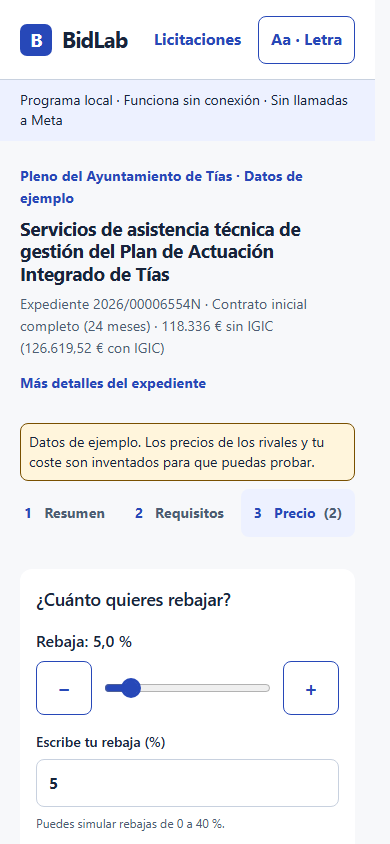
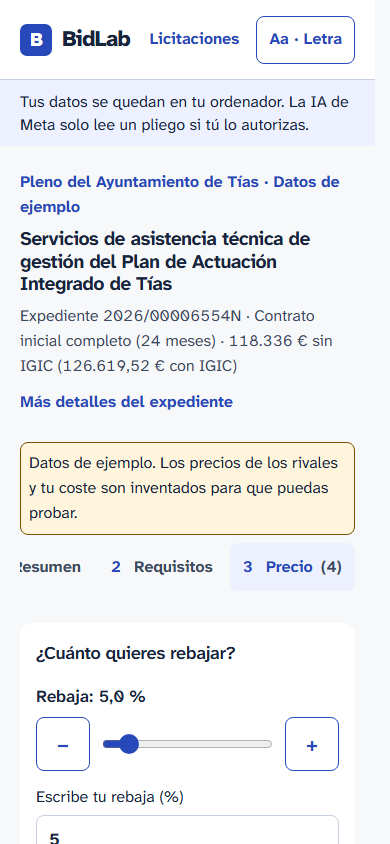
Redesign the type and contrast system for older readers
Atkinson Hyperlegible Next for text, Inter figures for amounts, a 16px
reading floor applied through the Tailwind theme, AAA text contrast, 3:1
form-control borders, a compact step rail marked without relying on
colour, and a header that states where the data goes.

diff --git a/apps/web/src/styles.css b/apps/web/src/styles.css
@@ -1,13 +1,59 @@
 @import "tailwindcss";
 
+/*
+ * Design system for the primary user: the owner of a small Spanish firm,
+ * often 55-75 years old, deciding alone whether a public tender is worth
+ * a bid. Every token below answers to that person, not to a style trend.
+ *
+ * 1. Reading floor. Nothing a user must read is smaller than 16px; body
+ *    copy is 18px. Tailwind's text-xs/text-sm are re-based upward here
+ *    instead of being edited in ~300 call sites, so the floor is a single
+ *    decision (NN/g, "Usability for Seniors": 16px minimum, larger body).
+ * 2. Typeface. Atkinson Hyperlegible Next was drawn by the Braille
+ *    Institute for low-vision readers: distinct I/l/1, 0/O and open
+ *    counters. In a pricing tool, a misread digit is a wrong bid, so the
+ *    figures come from Inter with a plain zero (see "BidLab Figures").
+ * 3. Contrast. Text meets WCAG 2.2 AAA (7:1) on paper and white; form
+ *    controls get their own border token at >= 3:1 (SC 1.4.11), because
+ *    a field you cannot see is a field you do not fill in.
+ * 4. Targets. Every control is >= 48px tall (buttons in ui.tsx), above the
+ *    WCAG 2.5.8 minimum, for hands that tremble or a trackpad.
+ * 5. One idea per surface, plain Spanish, the same word for the same
+ *    action everywhere (docs/copy-style-es.md): recognition over recall.
+ * 6. Motion only confirms what the user just did, and stops under
+ *    prefers-reduced-motion (see lib/motion.ts).
+ */
+/* Digits only (unicode-range), from Inter: Atkinson's zero carries a slash,
+ * which reads as "Ø" in euro amounts for a Spanish reader. Letters stay
+ * Atkinson; figures look like the ones on a bank statement. */
+@font-face {
+  font-family: "BidLab Figures";
+  src: url("../../../node_modules/@fontsource-variable/inter/files/inter-latin-wght-normal.woff2")
+    format("woff2-variations");
+  font-weight: 100 900;
+  font-style: normal;
+  font-display: swap;
+  unicode-range: U+0030-0039;
+}
+
 @theme {
+  --font-sans: "BidLab Figures", "Atkinson Hyperlegible Next", system-ui, -apple-system, "Segoe UI", sans-serif;
+  /* Re-based Tailwind steps (see 1.): xs 14px for incidental metadata only,
+   * sm 16px as the reading floor. Line heights keep ~1.5 for body copy. */
+  --text-xs: 0.875rem;
+  --text-xs--line-height: 1.45;
+  --text-sm: 1rem;
+  --text-sm--line-height: 1.55;
+  --text-base: 1.0625rem;
+  --text-base--line-height: 1.55;
   /* Oficina tokens (diseno_anterior/sistema/tokens.json). Names keep the
-   * existing code working; values are the mock, verified byte for byte. */
+   * existing code working; muted/line/control were darkened for (3.). */
   --color-paper: #f7f8fa;
   --color-surface: #f7f8fa;
   --color-white: #ffffff;
   --color-ink: #18243b;
-  --color-muted: #4c5d73;
+  --color-muted: #3b4a5e;
+  --color-control: #6b7a90;
   --color-primary: #2748b8;
   --color-primary-hover: #1e3fa0;
   --color-primary-ink: #162d75;
@@ -44,7 +90,7 @@ html.font-large {
 body {
   background: var(--color-paper);
   color: var(--color-ink);
-  font-family: system-ui, -apple-system, "Segoe UI", sans-serif;
+  font-family: var(--font-sans);
   font-size: 1.125rem;
   line-height: 1.55;
   margin: 0;
@@ -128,7 +174,7 @@ a[href^="http"]::after {
   }
   .journey-number {
     display: block;
-    font-size: 0.889rem;
+    font-size: 1rem;
     font-weight: 700;
     color: var(--color-muted);
   }
@@ -144,7 +190,7 @@ a[href^="http"]::after {
   }
   .summary-journey p {
     margin: 4px 0 0;
-    font-size: 0.889rem;
+    font-size: 1rem;
     color: var(--color-muted);
   }
   .example-presets {
@@ -158,7 +204,7 @@ a[href^="http"]::after {
     font-size: 1rem;
   }
   .example-presets button {
-    font-size: 0.889rem;
+    font-size: 1rem;
     padding: 10px 12px;
   }
   .offer-composition {
@@ -243,11 +289,11 @@ a[href^="http"]::after {
   }
   small,
   .small {
-    font-size: 0.889rem;
+    font-size: 1rem;
   }
 
   .eyebrow {
-    font-size: 0.889rem;
+    font-size: 1rem;
     font-weight: 650;
     color: var(--color-primary);
     margin: 0 0 12px;
@@ -262,7 +308,7 @@ a[href^="http"]::after {
     margin-bottom: 0;
   }
   .proof {
-    font-size: 0.889rem;
+    font-size: 1rem;
     color: var(--color-muted);
     margin-top: 16px;
   }
@@ -321,7 +367,7 @@ a[href^="http"]::after {
 
   .fineline {
     color: var(--color-muted);
-    font-size: 0.889rem;
+    font-size: 1rem;
     margin: 12px 0 0;
   }
 
@@ -385,7 +431,7 @@ a[href^="http"]::after {
     border-radius: 8px;
     padding: 10px 18px;
     font-weight: 650;
-    font-size: 0.889rem;
+    font-size: 1rem;
     line-height: 1.4;
     text-decoration: none;
     display: inline-flex;
@@ -401,7 +447,7 @@ a[href^="http"]::after {
   .disclosure {
     padding: 10px 32px;
     background: var(--color-soft);
-    font-size: 0.889rem;
+    font-size: 1rem;
   }
   .footer-help {
     padding-top: 0;
@@ -440,7 +486,7 @@ a[href^="http"]::after {
     display: inline-flex;
     align-items: center;
     padding: 8px 0;
-    font-size: 0.889rem;
+    font-size: 1rem;
   }
   /* BL-V2-03: external chart legend (text carries meaning). */
   .curve-legend {
@@ -450,7 +496,7 @@ a[href^="http"]::after {
     list-style: none;
     margin: 8px 0 0;
     padding: 0;
-    font-size: 0.889rem;
+    font-size: 1rem;
   }
   .curve-legend li {
     display: inline-flex;
@@ -539,7 +585,7 @@ a[href^="http"]::after {
     background: var(--color-white);
     color: var(--color-primary);
     padding: 10px 18px;
-    font-size: 0.889rem;
+    font-size: 1rem;
     font-weight: 650;
     line-height: 1.4;
     text-decoration: none;
@@ -557,9 +603,13 @@ a[href^="http"]::after {
     display: grid;
     gap: 10px;
   }
+  /* The five steps are the user's map of the file. All five stay visible
+   * above the fold at 1280x720 (56px each, still above the 48px target),
+   * and the current one is marked by a bar and weight, not by tint alone
+   * (WCAG 1.4.1: colour is never the only cue). */
   .steps ul {
     display: grid;
-    gap: 10px;
+    gap: 4px;
     margin: 0;
     padding: 0;
     list-style: none;
@@ -569,23 +619,25 @@ a[href^="http"]::after {
   }
   .steps button {
     text-align: left;
-    color: var(--color-muted);
+    color: var(--color-ink);
     border: 1px solid transparent;
     border-radius: 8px;
     background: transparent;
     cursor: pointer;
-    min-height: 68px;
-    padding: 10px 18px;
-    font-size: 0.889rem;
-    font-weight: 650;
+    min-height: 56px;
+    padding: 8px 18px;
+    font-size: 1.0625rem;
+    font-weight: 600;
     line-height: 1.4;
   }
   .steps button:hover {
-    filter: brightness(0.95);
+    background: var(--color-white);
   }
   .steps button[aria-current="step"] {
     background: var(--color-soft);
-    color: var(--color-primary);
+    color: var(--color-primary-ink);
+    font-weight: 800;
+    box-shadow: inset 4px 0 0 var(--color-primary);
   }
   .stepnum {
     margin-right: 14px;
@@ -601,11 +653,11 @@ a[href^="http"]::after {
     text-align: left;
     background: var(--color-primary-soft);
     padding: 6px 8px;
-    font-size: 12px;
+    font-size: 1rem;
   }
   .steps .base {
     padding: 20px 18px;
-    font-size: 0.889rem;
+    font-size: 1rem;
   }
   .steps .base p {
     margin: 8px 0 0;
@@ -674,7 +726,7 @@ a[href^="http"]::after {
     background: var(--color-soft);
     border-radius: 6px;
     color: var(--color-primary);
-    font-size: 0.889rem;
+    font-size: 1rem;
     font-weight: 650;
     white-space: normal;
   }
@@ -892,7 +944,7 @@ a[href^="http"]::after {
     font: inherit;
     color: var(--color-ink);
     background: var(--color-white);
-    border: 2px solid var(--color-line);
+    border: 2px solid var(--color-control);
     border-radius: 8px;
     min-height: 48px;
     padding: 10px 14px;
@@ -1045,7 +1097,7 @@ a[href^="http"]::after {
     font-size: 16px;
   }
   .disclosure {
-    font-size: 14px;
+    font-size: 16px;
     line-height: 1.45;
     padding: 10px 20px;
   }
@@ -1304,7 +1356,7 @@ a[href^="http"]::after {
   height: 1.5rem;
   border-radius: 9999px;
   border: 2px solid currentColor;
-  font-size: 0.8rem;
+  font-size: 0.875rem;
   font-weight: 700;
   display: inline-flex;
   align-items: center;
@@ -1322,7 +1374,7 @@ a[href^="http"]::after {
 }
 .trace-head {
   margin: 0;
-  font-size: 0.9rem;
+  font-size: 1rem;
 }
 .trace-head a {
   font-weight: 700;
@@ -1334,7 +1386,7 @@ a[href^="http"]::after {
 }
 .trace-detail {
   margin: 0.15rem 0 0;
-  font-size: 0.85rem;
+  font-size: 1rem;
 }
 
 /* Decision spotlight (BL-V3 P0-04): verdict first, conditions attached. */
@@ -1353,7 +1405,7 @@ a[href^="http"]::after {
   min-width: 0;
 }
 .spotlight-figures dt {
-  font-size: 0.85rem;
+  font-size: 1rem;
   color: var(--color-muted);
 }
 .spotlight-figures dd {
@@ -1363,7 +1415,7 @@ a[href^="http"]::after {
 }
 .spotlight-ctas {
   margin: 0.75rem 0 0;
-  font-size: 0.9rem;
+  font-size: 1rem;
 }
 .spotlight-ctas a {
   font-weight: 700;
@@ -1394,7 +1446,7 @@ a[href^="http"]::after {
 .coverage-strip > li {
   min-width: 1.75rem;
   text-align: center;
-  font-size: 0.8rem;
+  font-size: 0.875rem;
   font-variant-numeric: tabular-nums;
   border: 1px solid var(--color-line);
   border-radius: 0.35rem;

diff --git a/apps/web/src/main.tsx b/apps/web/src/main.tsx
@@ -1,5 +1,12 @@
 import { StrictMode } from "react";
 import { createRoot } from "react-dom/client";
+// Atkinson Hyperlegible Next ships with the bundle (no font CDN): the app
+// runs offline, and the typeface must not depend on a network request.
+import "@fontsource/atkinson-hyperlegible-next/400.css";
+import "@fontsource/atkinson-hyperlegible-next/400-italic.css";
+import "@fontsource/atkinson-hyperlegible-next/600.css";
+import "@fontsource/atkinson-hyperlegible-next/700.css";
+import "@fontsource/atkinson-hyperlegible-next/800.css";
 import "./styles.css";
 import { AppProviders } from "./app/providers";
 import { AppRouter } from "./app/router";

diff --git a/apps/web/src/features/requirements/RequirementsTab.tsx b/apps/web/src/features/requirements/RequirementsTab.tsx
@@ -274,7 +274,9 @@ export function RequirementsTab({ workspace }: Props) {
                   <tr className="req-group">
                     <th scope="rowgroup" colSpan={5}>
                       {groupLabel}
-                      {groupOperator === "OR" ? " (basta con cumplir una)" : ""}
+                      {groupOperator === "OR" && !/basta con cumplir/i.test(groupLabel)
+                        ? " (basta con cumplir una)"
+                        : ""}
                     </th>
                   </tr>
                 )}

diff --git a/apps/web/src/components/TopBar.tsx b/apps/web/src/components/TopBar.tsx
@@ -42,8 +42,10 @@ export function TopBar() {
           Nueva licitación
         </Link>
       </header>
+      {/* Trust statement first, in plain words: an older user's first
+       * question about an AI tool is "where do my papers go?". */}
       <div className="disclosure">
-        Programa local · Funciona sin conexión · Sin llamadas a Meta
+        Todo se guarda en tu ordenador. La IA de Meta solo lee un pliego si tú lo autorizas.
       </div>
     </>
   );
